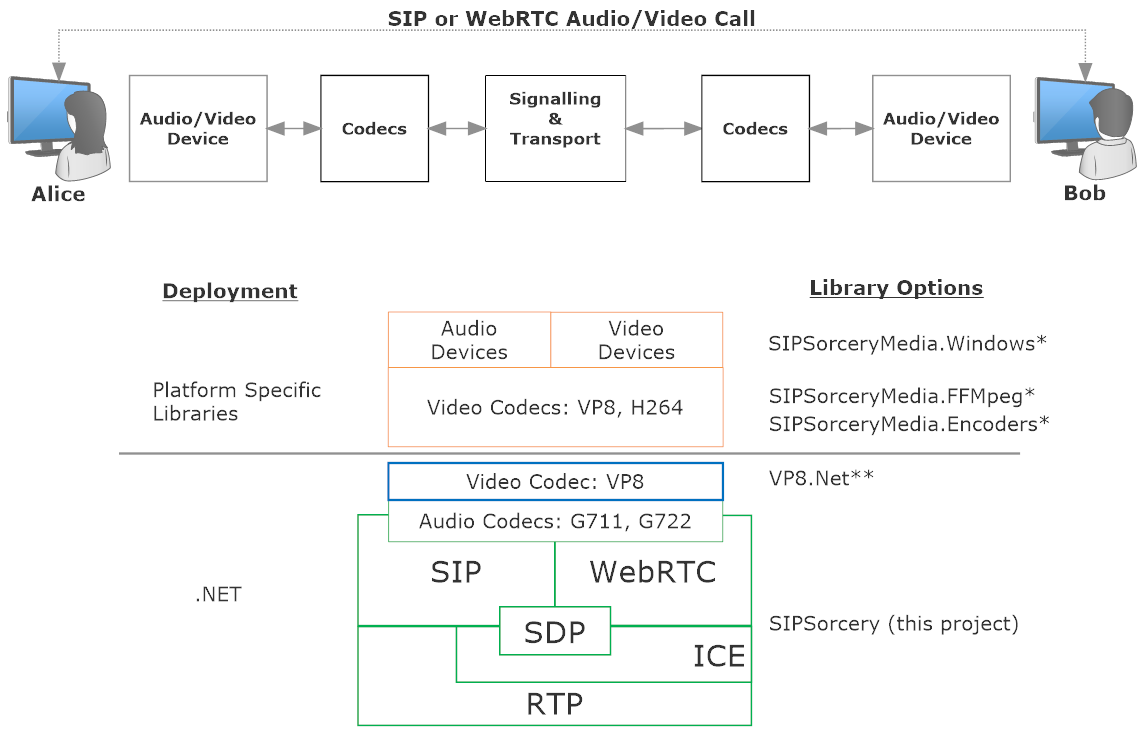
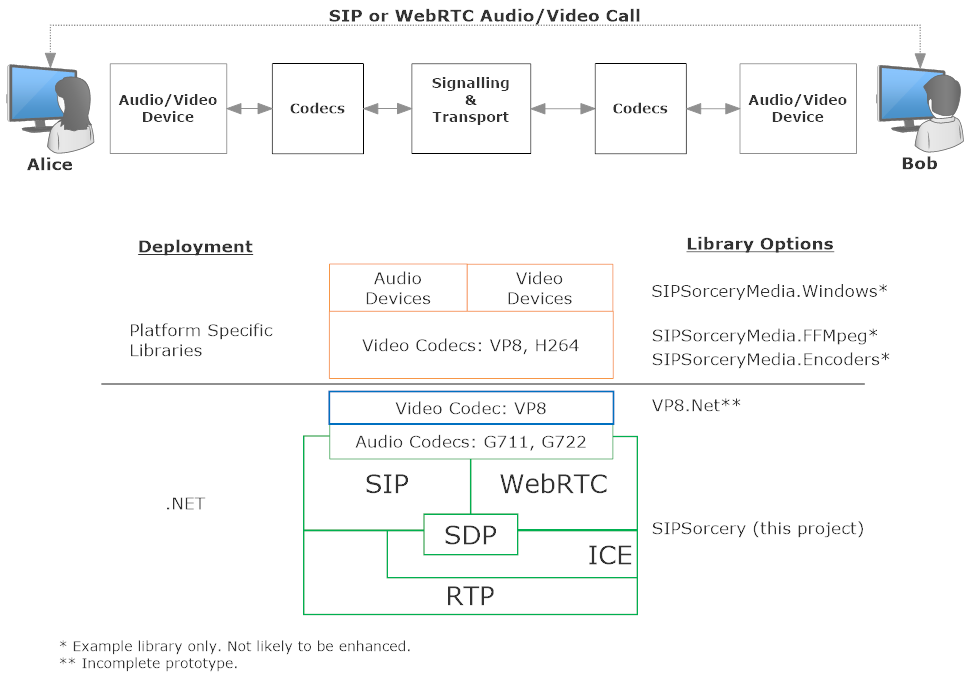
Added legend to overview diagram.

diff --git a/README.md b/README.md
@@ -13,10 +13,6 @@ The diagram below is a high level overview of a Real-time audio and video call b
 
 ![Real-time Communications Overview](./img/sipsorcery_realtime_overview.png)
 
-`*` Example library only. Not likely to be enhanced.
-
-`**` Incomplete prototype.
-
 **Supports both VoIP ([get started](#getting-started-voip)) and WebRTC ([get started](#getting-started-webrtc)).**
 
 **Some of the protocols supported:**
